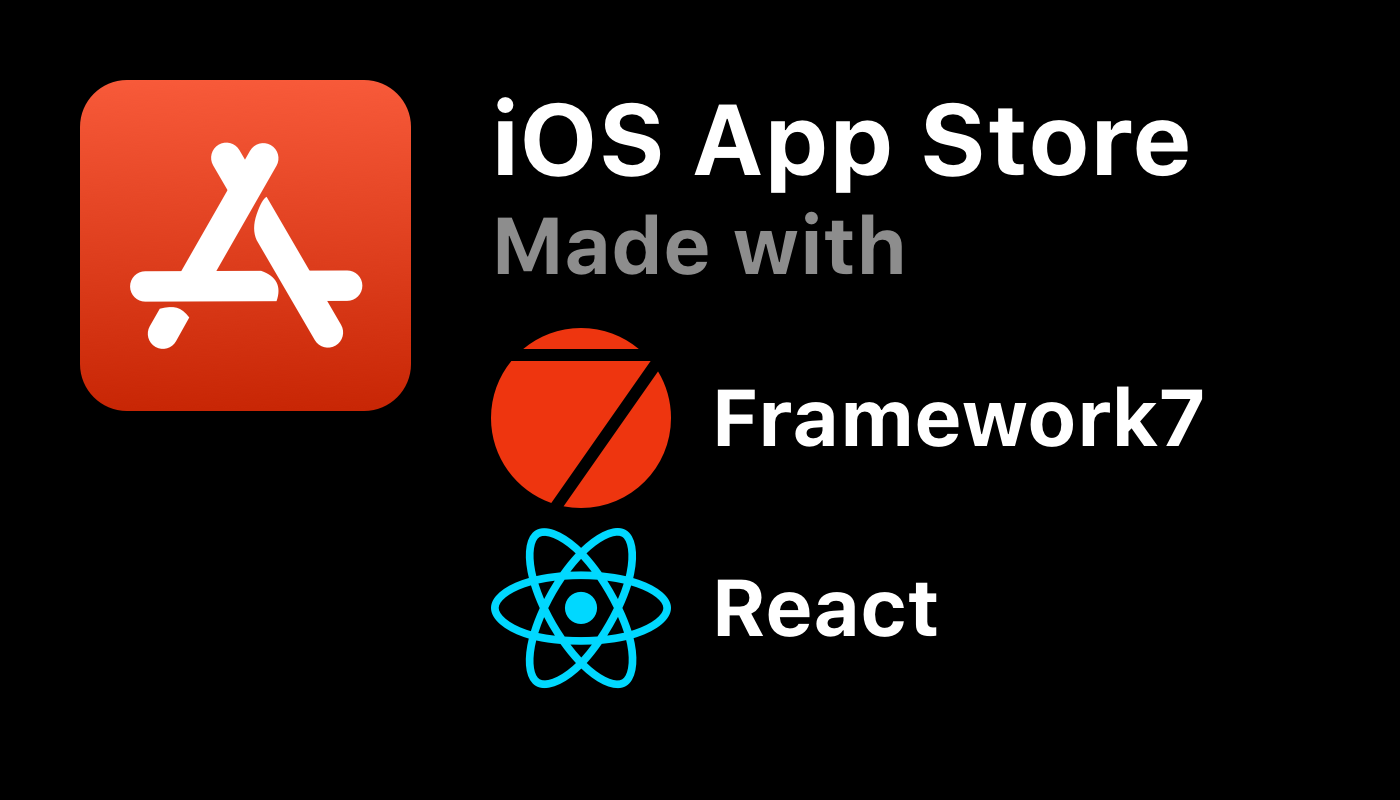
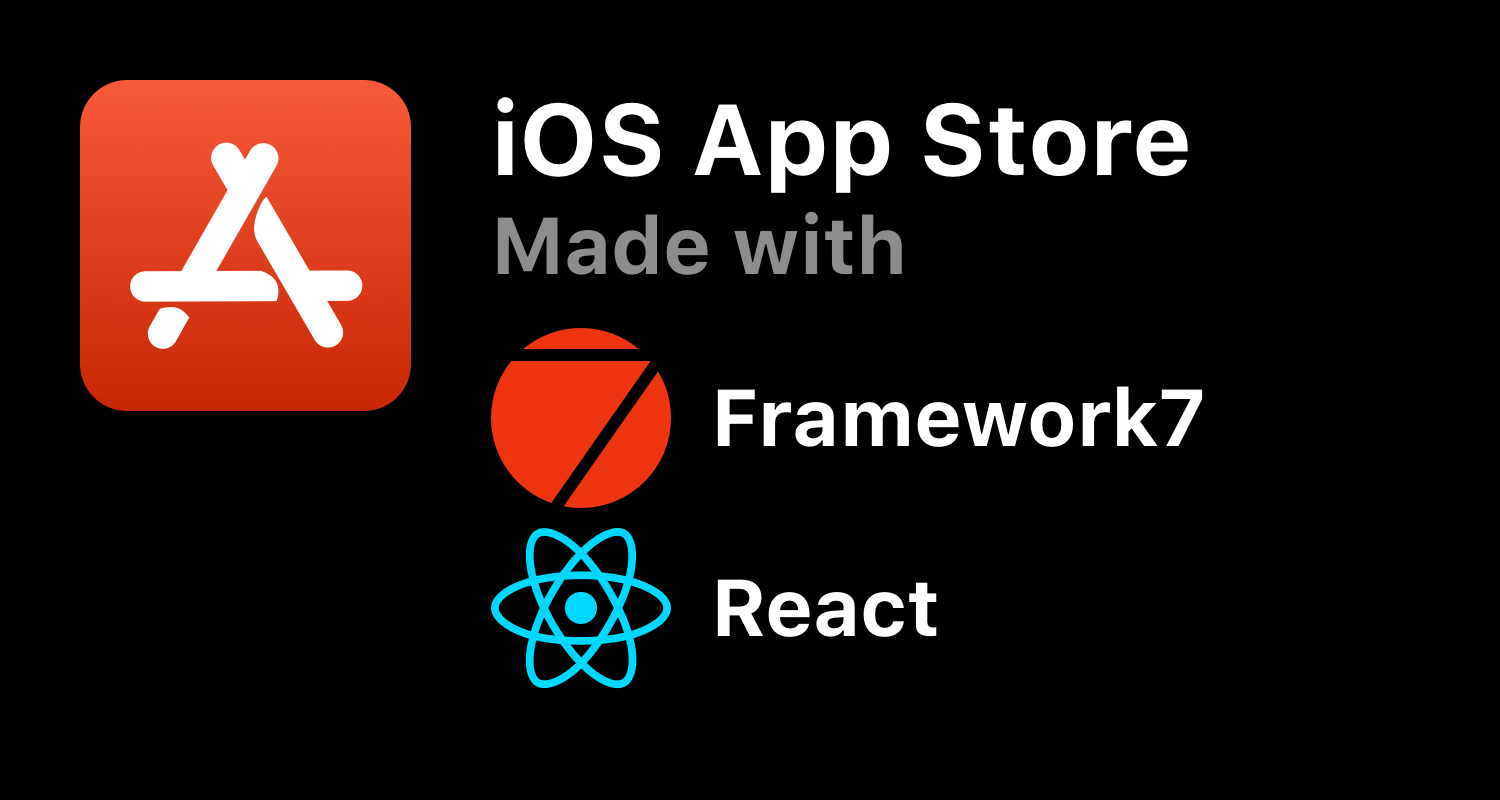
Update image

diff --git a/src/index.html b/src/index.html
@@ -23,7 +23,7 @@
   <meta property="og:title" content="App Store">
   <meta property="og:description" content="iOS App Store made with Framework7 and React">
   <meta property="og:image" content="https://f7appstore.netlify.app/static/share.png">
-  <meta property="og:image:width" content="1400">
+  <meta property="og:image:width" content="1500">
   <meta property="og:image:height" content="800">
   <meta property="og:site_name" content="App Store">
   <meta property="og:type" content="website">
